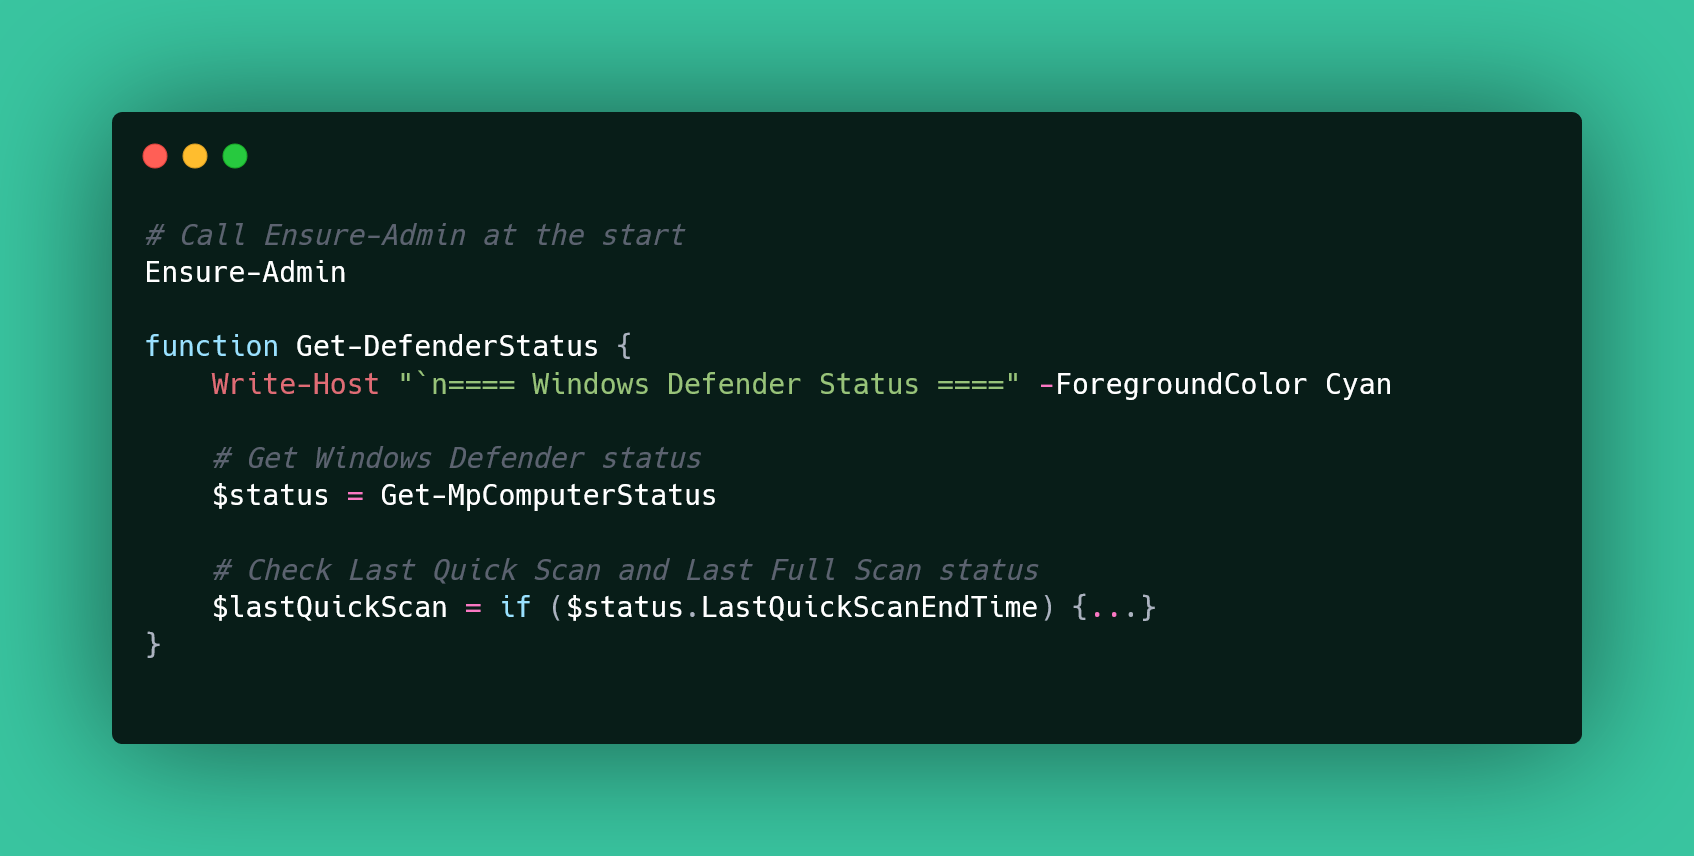
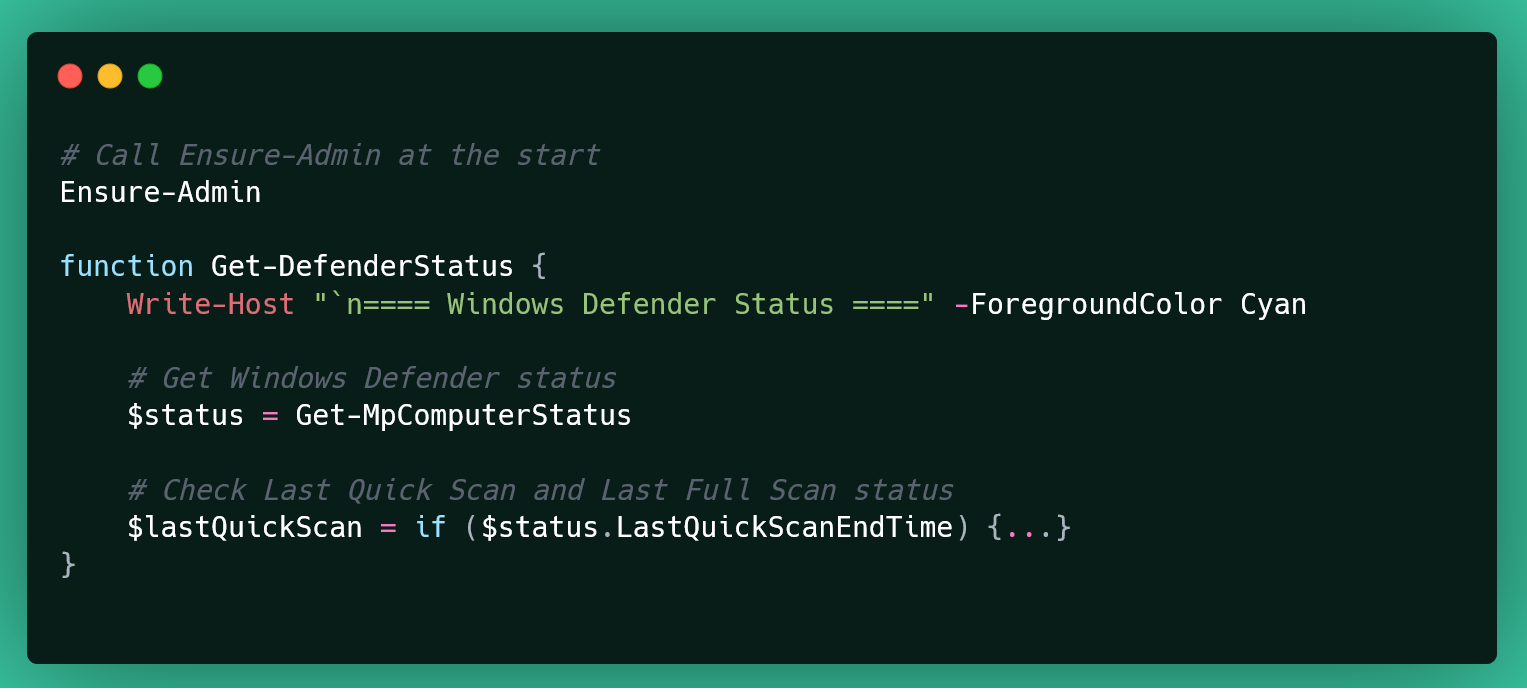
updated Main Execution - Checking Windows Defender Status image

diff --git a/Resource/WindowsDefender-script.md b/Resource/WindowsDefender-script.md
@@ -32,7 +32,11 @@ This repository contains a PowerShell script designed to analyze the status and 
   - This function, `Ensure-Admin`, checks if the script is running with administrator rights and restarts it with the required privileges if it's not.
   ![alt text](https://github.com/vaishnavucv/Project-winEvasion-Redteam/blob/main/Resource/FunctionEnsureAdministrativePrivileges.png?raw=true)
 
-## 
+## 3. Main Execution - Checking Windows Defender Status
+
+After ensuring the script runs with administrative privileges, it defines and invokes another function, `Get-DefenderStatus`, to fetch and display the status of Windows Defender.
+
+![alt text](https://github.com/vaishnavucv/Project-winEvasion-Redteam/blob/main/Resource/MainExecutionCheckingWindowsDefenderStatus.png?raw=true)
 
 ### How to Use the Script
 
